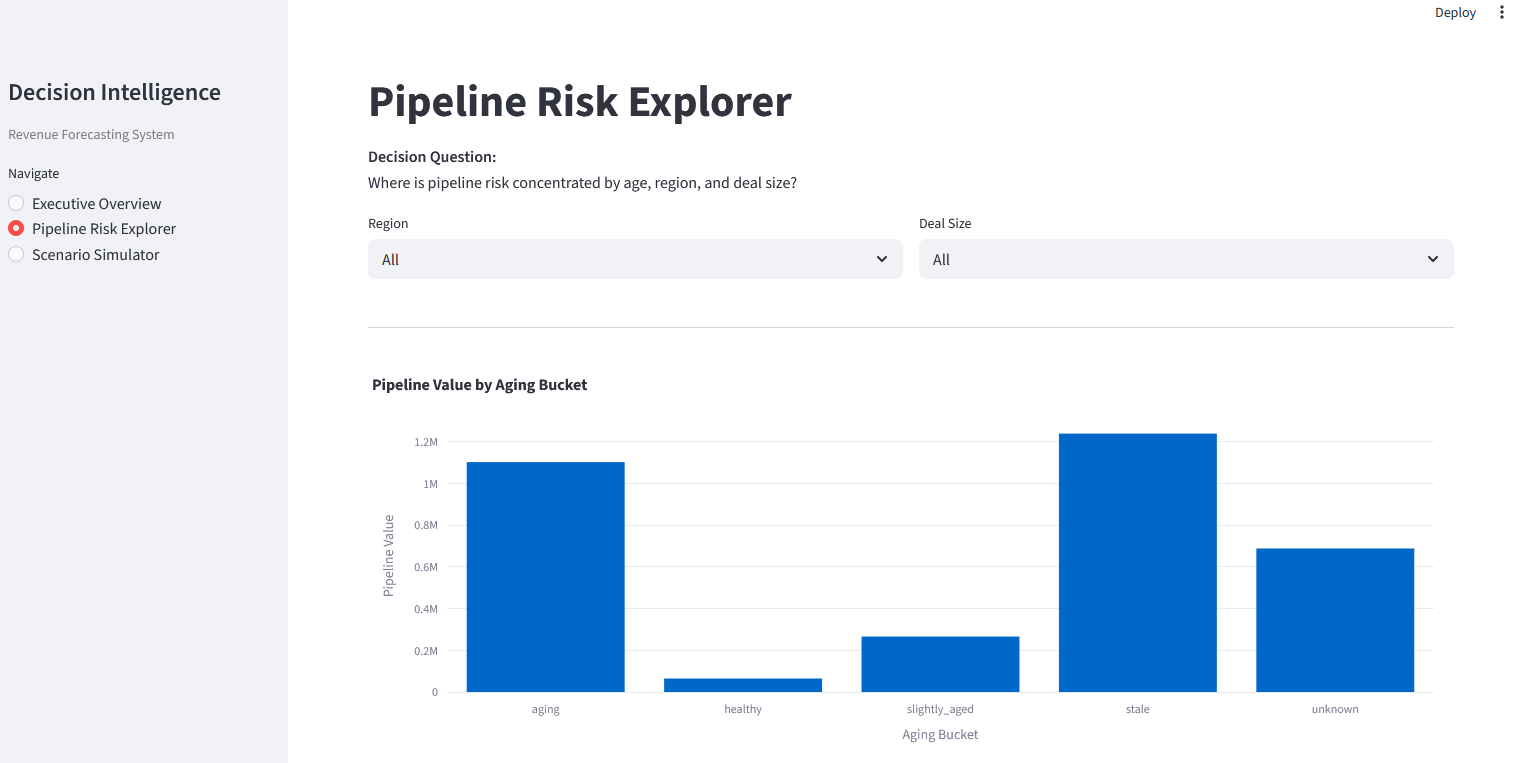
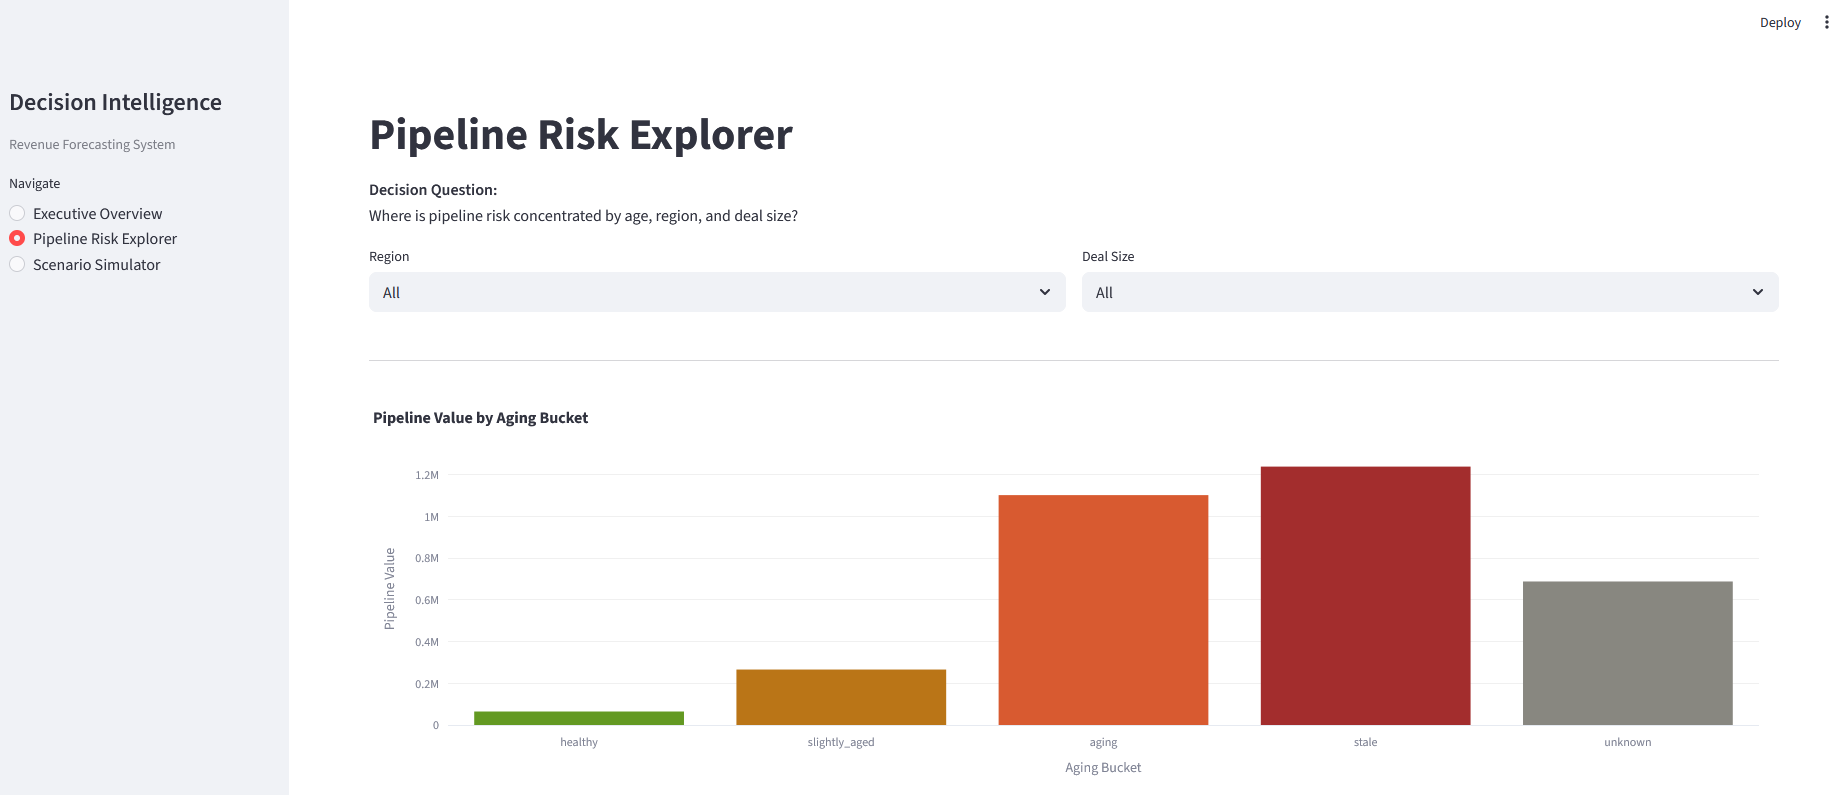
Updates to streamlit app

diff --git a/app/app.py b/app/app.py
@@ -56,44 +56,74 @@ if page == "Executive Overview":
         """
     )
 
-    #st.info("This page will show executive KPIs, forecast health, and recommended actions.")
-
+    
     
     # TEMPORARY DATA CHECK
     if data is not None:
-
-        #st.write(data["forecast"].columns.tolist())
-
+  
+        # KPI cards
+        st.markdown("**PIPELINE SUMMARY**")
         metrics = calculate_executive_metrics(data["forecast"])
 
-        col1, col2, col3, col4, col5 = st.columns(5)
+        cols = st.columns(5)
+        kpis = [
+                ("Open pipeline",    format_currency(metrics["open_pipeline"]),    False),
+                ("Expected revenue", format_currency(metrics["expected_revenue"]), False),
+                ("Forecast ratio",   format_percent(metrics["forecast_ratio"]),   False),
+                ("At-risk revenue",  format_currency(metrics["at_risk_revenue"]),  True),
+                ("Stale pipeline",   format_percent(metrics["stale_pipeline_pct"]),   True),
+            ]
 
-        col1.metric("Open Pipeline", format_currency(metrics["open_pipeline"]))
-        col2.metric("Expected Revenue", format_currency(metrics["expected_revenue"]))
-        col3.metric("Forecast Ratio", format_percent(metrics["forecast_ratio"]))
-        col4.metric("At-Risk Revenue", format_currency(metrics["at_risk_revenue"]))
-        col5.metric("Stale Pipeline", format_percent(metrics["stale_pipeline_pct"]))
+        for col, (label, value, is_risk) in zip(cols, kpis):
+            with col:
+                if is_risk:
+                    st.markdown(
+                f"""<div style="background:#FCEBEB;border-radius:8px;padding:14px 16px;">
+                        <p style="font-size:14px;color:#791F1F;margin:0 0 4px;">{label}</p>
+                        <p style="font-size:24px;font-weight:500;color:#A32D2D;margin:0;">{value}</p>
+                        </div>""",
+                        unsafe_allow_html=True,
+                    )
+                else:
+                    st.markdown(
+                f"""<div style="background:#eeee;border-radius:8px;padding:14px 16px;">
+                        <p style="font-size:14px;color:#000;margin:0 0 4px;">{label}</p>
+                        <p style="font-size:24px;font-weight:500;color:#000;margin:0;">{value}</p>
+                        </div>""",
+                        unsafe_allow_html=True,
+                    )
+        st.divider()
 
-    st.divider()
+        # Action cards
+        st.markdown("**RECOMMENDED ACTIONS**")
 
-    st.subheader("Recommended Actions")
-
-    rec1, rec2, rec3 = st.columns(3)
-
-    with rec1:
-        st.markdown("### 1. Reduce Aging Pipeline")
-        st.write("Prioritize opportunities older than 120 days.")
-        st.metric("Estimated Impact", "+12%")
-
-    with rec2:
-        st.markdown("### 2. Improve Data Quality")
-        st.write("Classify missing deal-size values to improve forecast confidence.")
-        st.metric("Estimated Impact", "+10.3%")
-
-    with rec3:
-        st.markdown("### 3. Defer Product Mix Optimization")
-        st.write("Lower near-term upside compared with aging and data quality actions.")
-        st.metric("Estimated Impact", "+0.3%")
+        cols = st.columns(3)
+        pill_styles = {
+            "high": ("background:#EAF3DE;color:#3B6D11", "↑"),
+            "med":  ("background:#E6F1FB;color:#185FA5", "↑"),
+            "low":  ("background:#F1EFE8;color:#5F5E5A", "–"),
+        }
+        
+        actions=[
+        {"title": "Reduce aging pipeline",          "desc": "Prioritize opportunities older than 120 days.",                          "impact": "+12%",   "priority": "high"},
+        {"title": "Improve data quality",            "desc": "Classify missing deal-size values to improve forecast confidence.",      "impact": "+10.3%", "priority": "med"},
+        {"title": "Defer product mix optimization",  "desc": "Lower near-term upside vs aging and data quality actions.",             "impact": "+0.3%",  "priority": "low"},
+        ]
+        
+        for i, (col, action) in enumerate(zip(cols, actions), 1):
+            style, arrow = pill_styles[action["priority"]]
+            with col:
+                st.markdown(
+                    f"""<div style="border:0.5px solid #ddd;border-radius:12px;padding:1rem 1.25rem;height:100%;">
+                    <p style="font-size:15px;color:#888;margin:0 0 6px;letter-spacing:.04em;">PRIORITY {i}</p>
+                    <p style="font-size:20px;font-weight:500;margin:0 0 6px;">{action["title"]}</p>
+                    <p style="font-size:15px;color:#666;margin:0 0 12px;">{action["desc"]}</p>
+                    <span style="font-size:13px;font-weight:500;padding:3px 10px;border-radius:99px;{style}">
+                    {arrow} {action["impact"]} forecast lift
+                    </span>
+                    </div>""",
+                    unsafe_allow_html=True,
+                )
 
 # -----------------------------
 # Page 2: Pipeline Risk Explorer
@@ -108,7 +138,6 @@ elif page == "Pipeline Risk Explorer":
         """
     )
 
-    #st.info("This page will show aging distribution, regional risk, and deal-size risk.")
     if data is not None:
         forecast_df = data["forecast"].copy()
 
@@ -210,6 +239,23 @@ elif page == "Scenario Simulator":
             step=5,
         )
 
+        # Dynamic slider label
+        slider_descriptions = {
+            "Pipeline Aging Reduction": (
+                f"At {intensity_pct}% intensity, "
+                f"**{intensity_pct}% of aging deals (>120 days)** are assumed to be re-engaged or closed out."
+            ),
+            "Data Quality Improvement": (
+                f"At {intensity_pct}% intensity, "
+                f"**{intensity_pct}% of deals with missing size values** are assumed to be classified."
+            ),
+            "Product Mix Optimization": (
+                f"At {intensity_pct}% intensity, "
+                f"**{intensity_pct}% of low-performing deals** are assumed to be shifted to higher-value products."
+            ),
+        }
+        st.caption(slider_descriptions[scenario_name])
+
         scenario_results = calculate_independent_scenario(
             baseline_expected_revenue=baseline_expected_revenue,
             scenario_name=scenario_name,
@@ -217,30 +263,36 @@ elif page == "Scenario Simulator":
         )
 
         st.divider()
-
         st.subheader("Scenario Impact")
 
-        col1, col2, col3 = st.columns(3)
+        
+        impact = [
+                ("Baseline Expected Revenue", format_currency(baseline_expected_revenue), None, False),
+                ("Scenario Expected Revenue", format_currency(scenario_results["scenario_expected_revenue"]), format_currency(scenario_results["revenue_delta"]), True),
+                ("Forecast Lift", format_percent(scenario_results["lift_pct"]), None, False ),
+            ]
 
-        with col1:
-            st.metric(
-                "Baseline Expected Revenue",
-                format_currency(baseline_expected_revenue),
-            )
+        cols = st.columns(3)
+        for col, (label, value, delta, is_highlight) in zip(cols, impact):
+            with col:
+                delta_html = (
+                    f'<p style="font-size:14px;font-weight:500;color:#3B6D11;'
+                    f'background:#EAF3DE;display:inline-block;padding:2px 10px;'
+                    f'border-radius:99px;margin:6px 0 0;">↑ {delta}</p>'
+                    if delta else '<p style="margin:6px 0 0;min-height:24px;"></p>'
+                )
+                st.markdown(
+                    f"""<div style="background:#eeee;border-radius:8px;
+                    padding:14px 16px;border:0.5px solid rgba(0,0,0,0.1);
+                    min-height:110px;">
+                    <p style="font-size:13px;color:#666;margin:0 0 4px;">{label}</p>
+                    <p style="font-size:24px;font-weight:500;margin:0;">{value}</p>
+                    {delta_html}
+                    </div>""",
+                    unsafe_allow_html=True,
+                )
 
-        with col2:
-            st.metric(
-                "Scenario Expected Revenue",
-                format_currency(scenario_results["scenario_expected_revenue"]),
-                delta=format_currency(scenario_results["revenue_delta"]),
-            )
-
-        with col3:
-            st.metric(
-                "Forecast Lift",
-                format_percent(scenario_results["lift_pct"]),
-            )
-
+        
         st.divider()
 
         st.subheader("Interpretation")

diff --git a/app/src/charts.py b/app/src/charts.py
@@ -1,5 +1,17 @@
 import plotly.express as px
+import plotly.graph_objects as go
+import pandas as pd
 
+# Color maps
+AGING_COLORS = {
+    "healthy":       "#639922",  # green
+    "slightly_aged": "#BA7517",  # amber
+    "aging":         "#D85A30",  # coral/orange-red
+    "stale":         "#A32D2D",  # red
+    "unknown":       "#888780",  # gray
+}
+
+AT_RISK_COLOR = "#D85A30"  # consistent coral for at-risk charts
 
 def aging_distribution_chart(df):
     chart_df = (
@@ -10,22 +22,32 @@ def aging_distribution_chart(df):
         )
     )
 
-    fig = px.bar(
-        chart_df,
-        x="age_bucket",
-        y="pipeline_value",
-        title="Pipeline Value by Aging Bucket",
-        labels={
-            "age_bucket": "Aging Bucket",
-            "pipeline_value": "Pipeline Value",
-        },
+    # Enforce display order
+    bucket_order = ["healthy", "slightly_aged", "aging", "stale", "unknown"]
+    chart_df["age_bucket"] = pd.Categorical(
+        chart_df["age_bucket"], categories=bucket_order, ordered=True
     )
+    chart_df = chart_df.sort_values("age_bucket")
+    chart_df["color"] = chart_df["age_bucket"].map(AGING_COLORS)
 
+    fig = go.Figure(
+        go.Bar(
+            x=chart_df["age_bucket"],
+            y=chart_df["pipeline_value"],
+            marker_color=chart_df["color"],
+            hovertemplate="<b>%{x}</b><br>Pipeline Value: $%{y:,.0f}<extra></extra>",
+        )
+    )
     fig.update_layout(
+        title="Pipeline Value by Aging Bucket",
+        xaxis_title="Aging Bucket",
+        yaxis_title="Pipeline Value",
         height=400,
         margin=dict(l=20, r=20, t=60, b=20),
+        plot_bgcolor="rgba(0,0,0,0)",
+        paper_bgcolor="rgba(0,0,0,0)",
     )
-
+    fig.update_yaxes(gridcolor="rgba(0,0,0,0.06)")
     return fig
 
 
@@ -33,54 +55,61 @@ def aging_distribution_chart(df):
 def regional_risk_chart(df):
     chart_df = (
         df.groupby("regional_office", as_index=False)
-        .agg(
-            at_risk_revenue=("estimated_deal_value", "sum")
-        )
+        .agg(at_risk_revenue=("estimated_deal_value", "sum"))
         .sort_values("at_risk_revenue", ascending=False)
     )
 
-    fig = px.bar(
-        chart_df,
-        x="regional_office",
-        y="at_risk_revenue",
-        title="At-Risk Pipeline by Region",
-        labels={
-            "regional_office": "Region",
-            "at_risk_revenue": "At-Risk Revenue",
-        },
+    fig = go.Figure(
+        go.Bar(
+            x=chart_df["regional_office"],
+            y=chart_df["at_risk_revenue"],
+            marker_color=AT_RISK_COLOR,
+            hovertemplate="<b>%{x}</b><br>At-Risk Revenue: $%{y:,.0f}<extra></extra>",
+        )
     )
-
     fig.update_layout(
+        title="At-Risk Pipeline by Region",
+        xaxis_title="Region",
+        yaxis_title="At-Risk Revenue",
         height=400,
         margin=dict(l=20, r=20, t=60, b=20),
+        plot_bgcolor="rgba(0,0,0,0)",
+        paper_bgcolor="rgba(0,0,0,0)",
     )
-
+    fig.update_yaxes(gridcolor="rgba(0,0,0,0.06)")
     return fig
+
 
 
 # Risk by Deal Size
 def deal_size_risk_chart(df):
     chart_df = (
         df.groupby("estimated_deal_size_band", as_index=False)
-        .agg(
-            at_risk_revenue=("estimated_deal_value", "sum")
+        .agg(at_risk_revenue=("estimated_deal_value", "sum"))
+    )
+
+    size_order = ["small", "medium", "large"]
+    chart_df["estimated_deal_size_band"] = pd.Categorical(
+        chart_df["estimated_deal_size_band"], categories=size_order, ordered=True
+    )
+    chart_df = chart_df.sort_values("estimated_deal_size_band")
+
+    fig = go.Figure(
+        go.Bar(
+            x=chart_df["estimated_deal_size_band"],
+            y=chart_df["at_risk_revenue"],
+            marker_color=AT_RISK_COLOR,
+            hovertemplate="<b>%{x}</b><br>At-Risk Revenue: $%{y:,.0f}<extra></extra>",
         )
     )
-
-    fig = px.bar(
-        chart_df,
-        x="estimated_deal_size_band",
-        y="at_risk_revenue",
-        title="At-Risk Pipeline by Deal Size",
-        labels={
-            "estimated_deal_size_band": "Deal Size",
-            "at_risk_revenue": "At-Risk Revenue",
-        },
-    )
-
     fig.update_layout(
+        title="At-Risk Pipeline by Deal Size",
+        xaxis_title="Deal Size",
+        yaxis_title="At-Risk Revenue",
         height=400,
         margin=dict(l=20, r=20, t=60, b=20),
+        plot_bgcolor="rgba(0,0,0,0)",
+        paper_bgcolor="rgba(0,0,0,0)",
     )
-
+    fig.update_yaxes(gridcolor="rgba(0,0,0,0.06)")
     return fig

diff --git a/README.md b/README.md
@@ -94,7 +94,7 @@ The model estimates probability-weighted expected revenue over a 90-day horizon.
 **Deal Sizes:**
 - Small: < 5,000
 - Medium: < 20,000 
-- Larg: > 20,000  
+- Large: > 20,000  
 - Unknown: missing close value amount 
 
 **Deal age buckets:**
@@ -308,8 +308,7 @@ Scenario analysis shows that the most impactful opportunities for improving fore
 - Extend the analysis toward causal inference to better understand the impact of pipeline interventions (e.g., reducing deal age or improving data quality) on conversion outcomes  
 
 - Enhance the ML layer with tree-based models and probability calibration to improve ranking and accuracy of deal-level predictions  
-
-- Develop a lightweight application or dashboard to support interactive exploration of pipeline health, forecast outputs, and scenario analysis  
+ 
 
 - Explore LLM-based summarization to generate automated, executive-ready insights from pipeline and scenario outputs  
 
